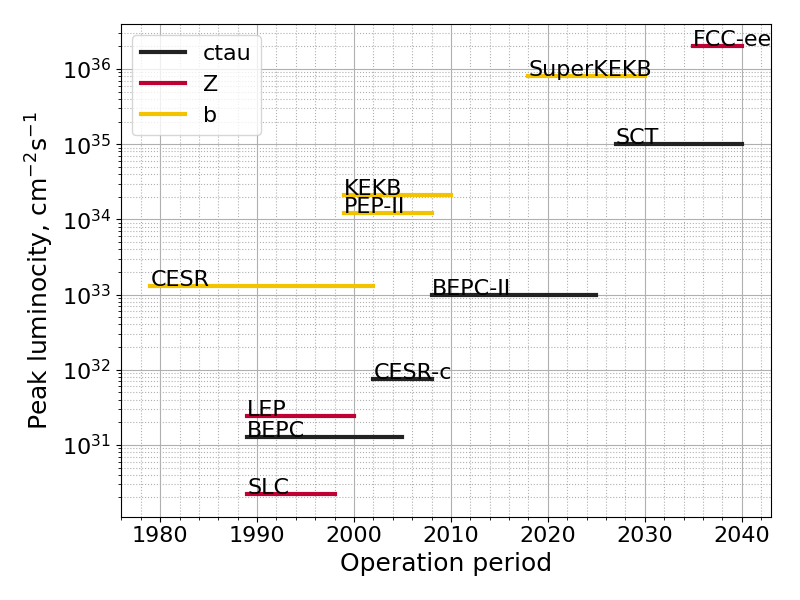
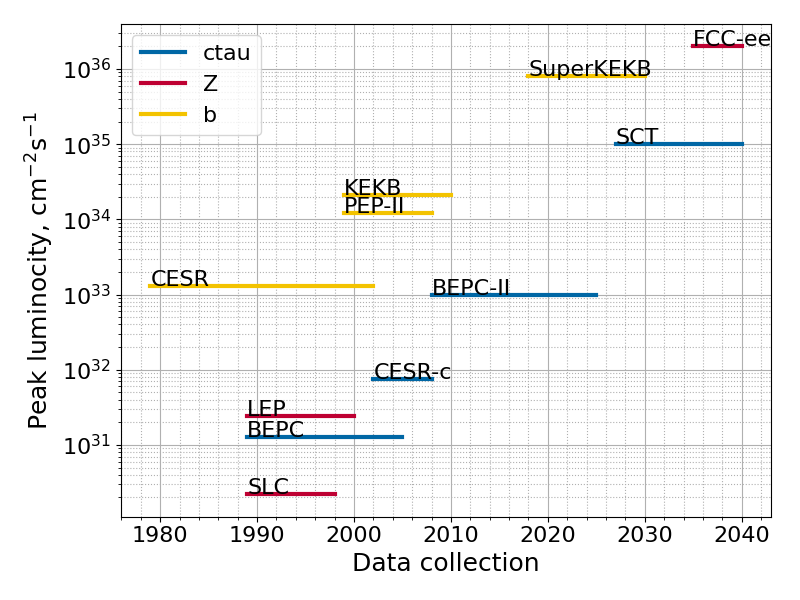
readme updated with yields plots

diff --git a/colors.py b/colors.py
@@ -4,13 +4,44 @@ import itertools
 # kelly's colors - https://i.kinja-img.com/gawker-media/image/upload/1015680494325093012.JPG
 # hex values - http://hackerspace.kinja.com/iscc-nbs-number-hex-r-g-b-263-f2f3f4-242-243-244-267-22-1665795040
 # kelly_colors = ['F2F3F4', '222222', 'F3C300', '875692', 'F38400', 'A1CAF1', 'BE0032', 'C2B280', '848482', '008856', 'E68FAC', '0067A5', 'F99379', '604E97', 'F6A600', 'B3446C', 'DCD300', '882D17', '8DB600', '654522', 'E25822', '2B3D26']
-kelly_colors = ['F2F3F4', '222222', 'F3C300', 'BE0032', 'C2B280', '848482', '008856', 'E68FAC', '0067A5', 'F99379', '604E97', 'F6A600', 'B3446C', 'DCD300', '882D17', '8DB600', '654522', 'E25822', '2B3D26']
+kelly_colors = [
+    '#0067A5',
+    '#F3C300',
+    '#BE0032',
+    '#222222',
+    '#C2B280',
+    '#848482',
+    '#008856',
+    '#E68FAC',
+    '#F99379',
+    '#604E97',
+    '#F6A600',
+    '#B3446C',
+    '#DCD300',
+    '#882D17',
+    '#8DB600',
+    '#654522',
+    '#E25822',
+    '#2B3D26'
+    '#F2F3F4',
+]
 
-pycolors = ['#1f77b4', '#ff7f0e', '#2ca02c', '#d62728', '#9467bd', '#8c564b', '#e377c2', '#7f7f7f', '#bcbd22', '#17becf']
+pycolors = [
+    '#1f77b4',
+    '#ff7f0e',
+    '#2ca02c',
+    '#d62728',
+    '#9467bd',
+    '#8c564b',
+    '#e377c2',
+    '#7f7f7f',
+    '#bcbd22',
+    '#17becf'
+]
 
 def kelly_gen():
-    for c in itertools.cycle(kelly_colors[1:]):
-        yield f'#{c}'
+    for c in itertools.cycle(kelly_colors):
+        yield c
 
 def pycol_gen():
     for col in itertools.cycle(pycolors):

diff --git a/plotter.py b/plotter.py
@@ -1,3 +1,6 @@
+#! /usr/bin/env python
+
+import os
 from colliders import Experiment, get_experiments
 from colors import kelly_gen
 import matplotlib.pyplot as plt
@@ -7,10 +10,10 @@ matplotlib.rcParams.update({'font.size': 16})
 
 def yield_plot(data, expmap, ylbl, lbl, lmap=None, show=True):
     if lmap is None:
-        lmap = {key: key for key in ['ctau', 'b', 'Z']}
+        lmap = {key: key for key in ['ctau', 'b', 'Z', 'p']}
 
     cgen = kelly_gen()
-    cmap = {key: col for key, col in zip(['ctau', 'b', 'Z'], cgen)}
+    cmap = {key: col for key, col in zip(['ctau', 'b', 'Z', 'p'], cgen)}
     keys = set()
 
     fig, ax = plt.subplots(figsize=(8, 6))
@@ -35,7 +38,7 @@ def yield_plot(data, expmap, ylbl, lbl, lmap=None, show=True):
 
     fig.tight_layout()
 
-    plt.savefig(f'yield{lbl}.png')
+    save_plot(f'yield{lbl}')
     if show:
         plt.show()
 
@@ -69,9 +72,16 @@ def experiments_plot(data: dict[str: Experiment], lmap=None, show=True):
 
     fig.tight_layout()
 
-    plt.savefig('colliders.png')
+    save_plot('colliders')
     if show:
         plt.show()
+
+
+def save_plot(fname, ext=['png']):
+    path = './plots' if os.path.isdir('./plots') else '.'
+    for ex in ext:
+        plt.savefig(f'{path}/{fname}.{ex}')
+
 
 if __name__ == '__main__':
     expmap = get_experiments()

diff --git a/yields.py b/yields.py
@@ -7,6 +7,7 @@ def get_tau_yelds():
         'BaBar'  : 0.5e9,
         'BelleII': 4.6e10,
         'SCT'    : 2.1e10,
+        'BESIII' : 2.e8
     }
 
 def get_jpsi_yields():

diff --git a/README.md b/README.md
@@ -1,5 +1,13 @@
 # Experiments at Flavor factories
 
-Colliders plot
+* Colliders plot
 
 ![](plots/colliders.png)
+
+* Charm mesons approximate yields
+
+![](plots/yieldcharm.png)
+
+* Tau leptons approximate yields
+
+![](plots/yieldtau.png)
